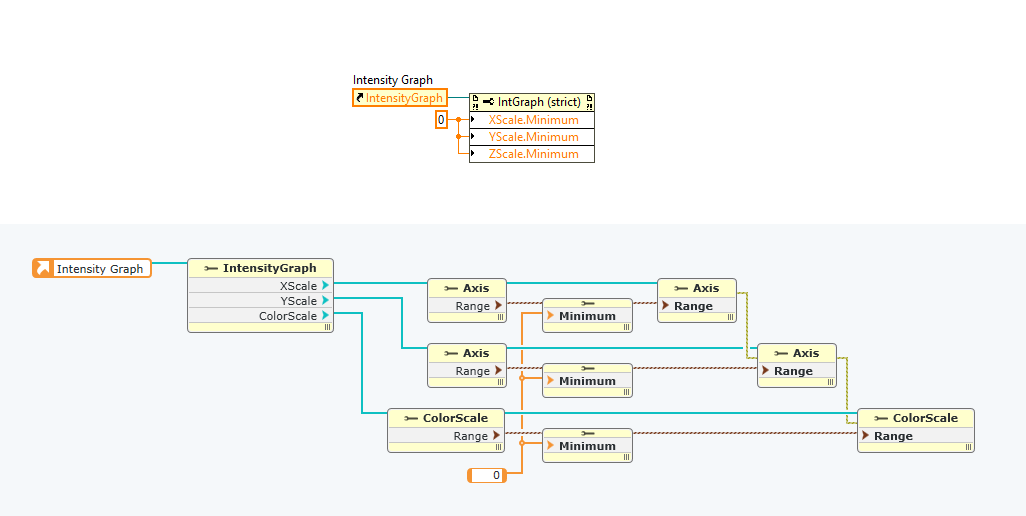
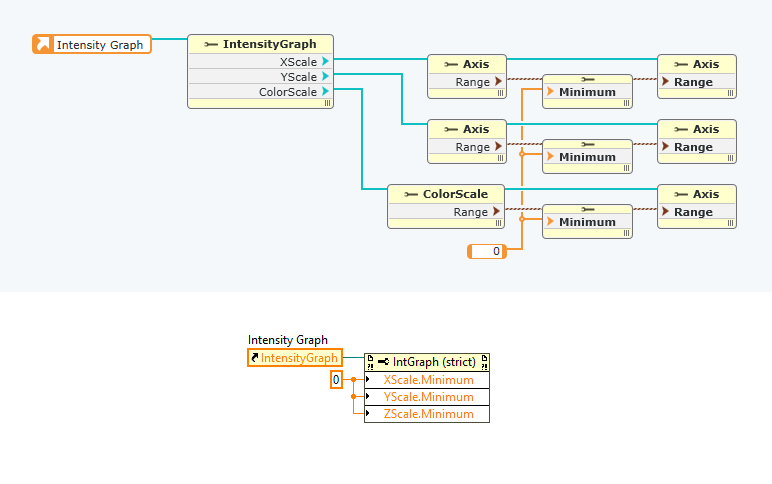
Add IPE comparison

Changed region(s): [[0.0311, 0.062, 0.9637, 0.9298]]

diff --git a/_posts/2020-3-10-Convert-To-LabVIEW-NXG-Part-1.md b/_posts/2020-3-10-Convert-To-LabVIEW-NXG-Part-1.md
@@ -17,7 +17,7 @@ The plan was to convert the first release of [Dataflow DJ](https://github.com/da
 |:--:|
 | *Version 0.1 of Dataflow DJ.* |
 
-The knew the UI probably wouldn't port nicely, so the focus was on achieving basic functionality. I did briefly consider trying to port the latest Dataflow DJ release, but it's split across multiple projects, with multiple static and dynamic PPLs. That was painful enough to implement in LabVIEW - I wasn't even going to attempt it in NXG!
+I knew the UI probably wouldn't port nicely, so the focus was on achieving basic functionality. I did briefly consider trying to port the latest Dataflow DJ release, but it's split across multiple projects, with multiple static and dynamic PPLs. That was painful enough to implement in LabVIEW - I wasn't even going to attempt it in NXG!
 
 Here's a quick look at the project under LabVIEW 2019. A few classes, a few libraries, some loose VIs and controls, and a top level VI. It's all pure LabVIEW, save for some DLL calls to load MP3s. The project is self contained, with no dependencies beyond vi.lib.
 
@@ -121,25 +121,29 @@ I did manage to find a workaround in the form of `Set Control Value`, which writ
 
 ## Diagram Flimflam
 
-OK, so not a lot of properties are supported. For those which do exist, multiple property nodes are somtimes required to access them. Take the contrived example below. If one wants to set all of the scale minimums of an intensity plot to 0 (leaving the maximum in place), this is the (only?) way it can be done in NXG. Every reference requires a property node, and in some cases clusters require their own property nodes too. The error wire at the end ensures the update order. The equivalent LabVIEW code is a single property node with three inputs - which is much more concise and readable too IMO.
+OK, so not a lot of properties are supported. For those which do exist, specifically reference types, multiple property nodes are required. Take the contrived example below. If one wants to set all of the scale minimums of an intensity plot to 0 (leaving the maximum untouched), this is the (only?) way it can be done in NXG. Every reference type requires a new property node to access its properties. The equivalent LabVIEW code is a single property node with three inputs - which is much more concise and readable IMO.
 
 | [![NXG references need a lot of property nodes.]({{ site.baseurl }}/images/Convert-To-LabVIEW-NXG-Part-1/Intensity-Graph-Property-Compare.png)]({{ site.baseurl }}/images/Convert-To-LabVIEW-NXG-Part-1/Intensity-Graph-Property-Compare.png) |
 |:--:|
-| *NXG references need a lot of property nodes.* |
+| *NXG references need more property nodes.* |
 
-This property node requirement extends to class members. If a class contains a cluster, elements of that cluster can not be directly accessed from a property node on the class wire. Instead the cluster needs to be unbundled, and a second property node used to access the elements. Writing to cluster elements requires even more property nodes and wires.
+This property node requirement extends to class members. If a class contains a cluster, elements of that cluster can not be directly accessed from a property node on the class wire. Instead the cluster needs to be unbundled, and a second property node used to access the elements. In this example the Channel class contains three EQ clusters. What was a single unbundle node in LabVIEW is now four property nodes in NXG.
 
-| [![NXG classes also need a lot of property nodes.]({{ site.baseurl }}/images/Convert-To-LabVIEW-NXG-Part-1/Class-Property-Compare.png)]({{ site.baseurl }}/images/Convert-To-LabVIEW-NXG-Part-1/Class-Property-Compare.png) |
+| [![NXG class cluster combos also need more property nodes.]({{ site.baseurl }}/images/Convert-To-LabVIEW-NXG-Part-1/Class-Property-Compare.png)]({{ site.baseurl }}/images/Convert-To-LabVIEW-NXG-Part-1/Class-Property-Compare.png) |
 |:--:|
-| *NXG classes also need a lot of property nodes.* |
+| *NXG class cluster combos also need more property nodes.* |
 
-While this property node nitpick doesn't affect functionality, all of these extra property nodes add to the diagram space. I really hope direct access to nested properties is coming in a future version of LabVIEW NXG, otherwise I'll have to seriously consider getting one of these monitors.
+One could/should use In Place Element structures (IPEs) in these cases, but they can be additional diagram bloat if performance or memory safety isn't a concern. NXG's IPEs even more so, they're enormous.
 
-| [![This was joke, NXG, not a suggestion!]({{ site.baseurl }}/images/Convert-To-LabVIEW-NXG-Part-1/ultrawide.jpg)]({{ site.baseurl }}/images/Convert-To-LabVIEW-NXG-Part-1/ultrawide.jpg) |
+| [![Those hotdog terminals...]({{ site.baseurl }}/images/Convert-To-LabVIEW-NXG-Part-1/IPE-Compare.png)]({{ site.baseurl }}/images/Convert-To-LabVIEW-NXG-Part-1/IPE-Compare.png) |
 |:--:|
-| *This was joke, NXG, not a suggestion!* |
+| *Those hotdog terminals...* |
 
-(One could/should use IPEs, but they are additional diagram bloat if performance or memory safety isn't a concern. NXG's IPEs even more so, they're enormous.)
+While this property node nitpick doesn't affect functionality, all of these extra property nodes quickly add up to a larger block diagram. I really hope direct access to nested properties is coming in a future version of LabVIEW NXG, otherwise I'll have to seriously consider getting one of these monitors.
+
+| [![This was a joke, NXG, not a suggestion!]({{ site.baseurl }}/images/Convert-To-LabVIEW-NXG-Part-1/ultrawide.jpg)]({{ site.baseurl }}/images/Convert-To-LabVIEW-NXG-Part-1/ultrawide.jpg) |
+|:--:|
+| *This was a joke, NXG, not a suggestion!* |
 
 ## The Event Structure
 
